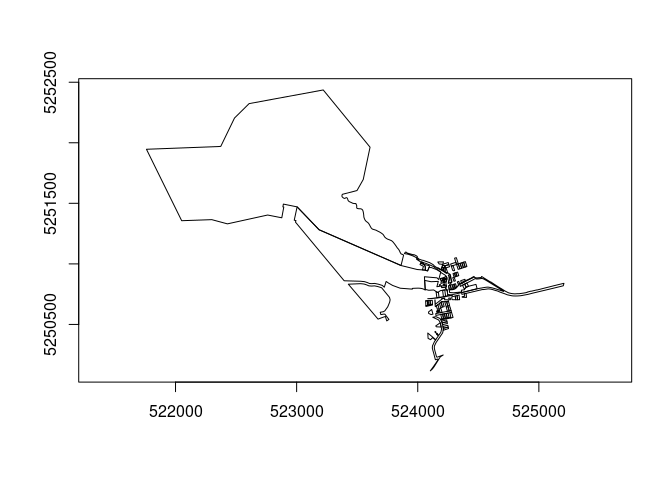
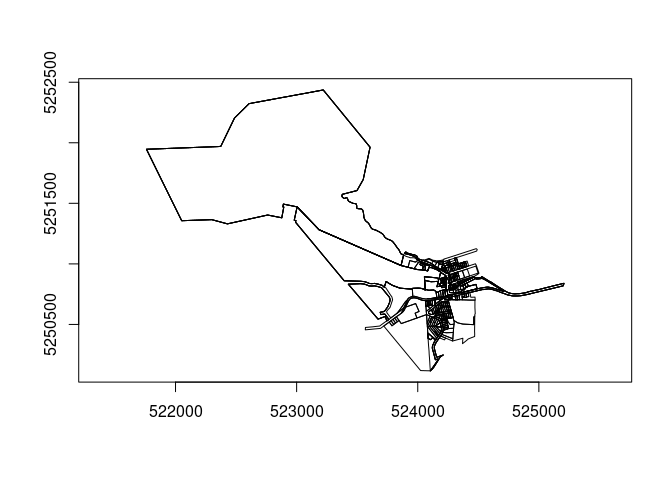
details

diff --git a/README.md b/README.md
@@ -5,6 +5,7 @@
 
 <!-- badges: start -->
 
+[![R-CMD-check](https://github.com/hypertidy/readwfs/actions/workflows/R-CMD-check.yaml/badge.svg)](https://github.com/hypertidy/readwfs/actions/workflows/R-CMD-check.yaml)
 <!-- badges: end -->
 
 # readwfs
@@ -32,8 +33,8 @@ wfs_services()
 #> # A tibble: 2 × 7
 #>   name                   url               driver region description srs   notes
 #>   <chr>                  <chr>             <chr>  <chr>  <chr>       <chr> <chr>
-#> 1 LIST Tasmania          https://services... WFS    Tasma... Cadastral ... EPSG... Rich...
-#> 2 Esri SampleWorldCities https://samplese... WFS    Global Continents... EPSG... Alwa...
+#> 1 LIST Tasmania          https://services… WFS    Tasma… Cadastral … EPSG… Rich…
+#> 2 Esri SampleWorldCities https://samplese… WFS    Global Continents… EPSG… Alwa…
 
 # Tasmania LIST open data WFS
 url <- wfs_example_url("list_tasmania")
@@ -131,27 +132,30 @@ parcels <- wfs_read(
   url,
   layer = "Public_OpenDataWFS:LIST_CADASTRAL_PARCELS",
   bbox = wfs_example_bbox("sandy_bay"),
-  srs = "EPSG:28355"
+  srs = "EPSG:28355", max_features = 1400
 )
-#> Reading 'Public_OpenDataWFS:LIST_CADASTRAL_PARCELS': 100 features available, geometry column 'SHAPE'
-#>   100 features returned
+#> Reading 'Public_OpenDataWFS:LIST_CADASTRAL_PARCELS': 464 features available, geometry column 'SHAPE'
+#>   498 features returned
+
+
+
 
 
 parcels
-#> # A tibble: 100 × 18
+#> # A tibble: 498 × 18
 #>        FID gml_id  OBJECTID     CID VOLUME FOLIO     PID POT_PID LPI   CAD_TYPE1
 #>    <int64> <chr>      <int>   <int> <chr>  <int>   <int>   <int> <chr> <chr>    
-#>  1    2688 LIST_C...     2688 1104474 59944      4 5677504       0 GRF64 Private ...
-#>  2    2877 LIST_C...     2877 1023836 128641     1 1816976       0 FMR21 Private ...
-#>  3    3425 LIST_C...     3425 1145853 126957     1 3273346       0 FJA84 Authorit...
-#>  4    4682 LIST_C...     4682 1023837 128641     2 1816984       0 FMR21 Private ...
-#>  5    6102 LIST_C...     6102 1249716 252507     1 7570663       0 FAC83 Private ...
-#>  6    6287 LIST_C...     6287 1023828 127656     3 1789939       0 FBF18 Private ...
-#>  7    6395 LIST_C...     6395 1502061 173638     1 9165211       0 GAV70 Private ...
-#>  8    8685 LIST_C...     8685 1407763 231575     1       0       0 <NA>  Casement 
-#>  9   10819 LIST_C...    10819 1334013 152956     1 2818818       0 GDH05 Private ...
-#> 10   11600 LIST_C...    11600 1091759 58505      2 5677731       0 HSF79 Private ...
-#> # ℹ 90 more rows
+#>  1    2688 LIST_C…     2688 1104474 59944      4 5677504       0 GRF64 Private …
+#>  2    2877 LIST_C…     2877 1023836 128641     1 1816976       0 FMR21 Private …
+#>  3    3425 LIST_C…     3425 1145853 126957     1 3273346       0 FJA84 Authorit…
+#>  4    4682 LIST_C…     4682 1023837 128641     2 1816984       0 FMR21 Private …
+#>  5    6102 LIST_C…     6102 1249716 252507     1 7570663       0 FAC83 Private …
+#>  6    6287 LIST_C…     6287 1023828 127656     3 1789939       0 FBF18 Private …
+#>  7    6395 LIST_C…     6395 1502061 173638     1 9165211       0 GAV70 Private …
+#>  8    8685 LIST_C…     8685 1407763 231575     1       0       0 <NA>  Casement 
+#>  9   10819 LIST_C…    10819 1334013 152956     1 2818818       0 GDH05 Private …
+#> 10   11600 LIST_C…    11600 1091759 58505      2 5677731       0 HSF79 Private …
+#> # ℹ 488 more rows
 #> # ℹ 8 more variables: CAD_TYPE2 <chr>, TENURE_TY <chr>, FEAT_NAME <chr>,
 #> #   STRATA_LEV <chr>, COMP_AREA <dbl>, MEAS_AREA <dbl>, UFI <chr>,
 #> #   geometry <wk_wkb>
@@ -167,7 +171,7 @@ readwfs detects the service type from the URL pattern:
 | URL pattern | GDAL driver | Example |
 |----|----|----|
 | `WFSServer`, `service=WFS` | WFS | Tasmania LIST, Esri SampleWorldCities |
-| `arcgis/rest/.../MapServer`, `FeatureServer` | ESRIJSON | ArcGIS REST services |
+| `arcgis/rest/…/MapServer`, `FeatureServer` | ESRIJSON | ArcGIS REST services |
 | `/collections`, `ogc/features` | OAPIF | OGC API Features |
 
 Or set `driver` explicitly: `wfs_read(url, layer, driver = "ESRIJSON")`.
@@ -181,13 +185,13 @@ Or set `driver` explicitly: `wfs_read(url, layer, driver = "ESRIJSON")`.
 | `wfs_find_layers()`  | Search layers by regex pattern        |
 | `wfs_layer_info()`   | Geometry type, extent, feature count  |
 | `wfs_fields()`       | Attribute schema for a layer          |
-| `wfs_read()`         | Fetch features -> tibble + wk geometry |
+| `wfs_read()`         | Fetch features → tibble + wk geometry |
 | `wfs_example_url()`  | Pre-configured example URLs           |
 | `wfs_example_bbox()` | Pre-configured bounding boxes         |
 
 ## Design
 
-- **gdalraster** for all I/O  --  no sf or terra required
+- **gdalraster** for all I/O — no sf or terra required
 - **wk** vectors for geometry interchange
 - **tibble** for tabular output (unclassed, no sticky geometry)
 - **geos** for spatial operations (suggested, not required)

diff --git a/NEWS.md b/NEWS.md
@@ -1,0 +1,20 @@
+
+## readwfs 0.1.0
+
+Initial development version.
+
+* `wfs_read()` reads vector features from WFS, OAPIF, and ArcGIS REST
+  endpoints into tibbles with `wk::wkb` geometry columns.
+* `wfs_layers()` and `wfs_find_layers()` for service discovery and
+  layer name search.
+* `wfs_layer_info()` returns geometry type, feature count, and extent
+  from service metadata (fast, no feature download).
+* `wfs_fields()` returns the attribute schema for a layer.
+* `wfs_services()` provides a catalogue of known public endpoints.
+* Auto-detection of service type (WFS, OAPIF, ESRIJSON) from URL patterns.
+* Safe default `max_features = 10000` with informative message when
+  more features are available.
+* WFS paging enabled by default for ~6x speedup on large fetches.
+* Uses `TRUST_CAPABILITIES_BOUNDS` for fast extent queries.
+* Example URLs and bounding boxes for Tasmania LIST and Esri
+  SampleWorldCities via `wfs_example_url()` and `wfs_example_bbox()`.
